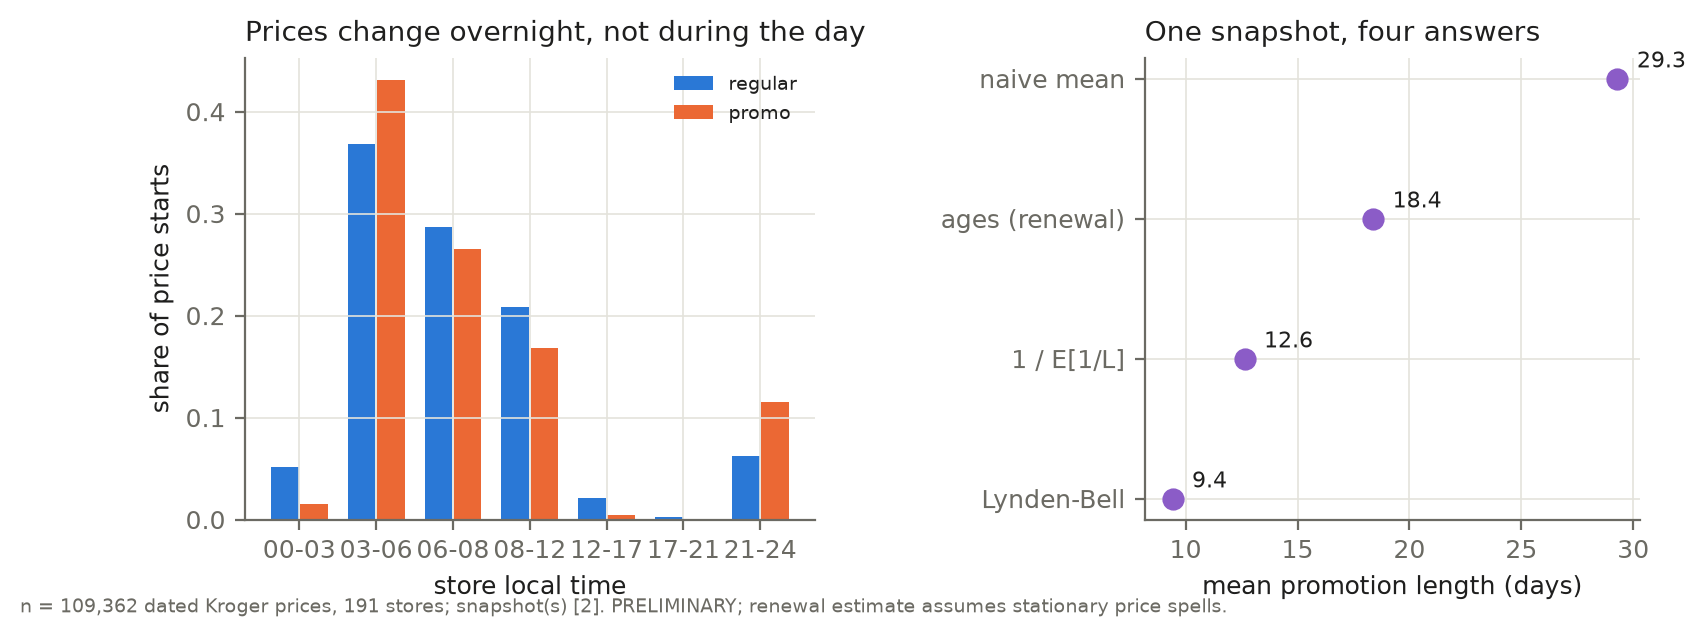
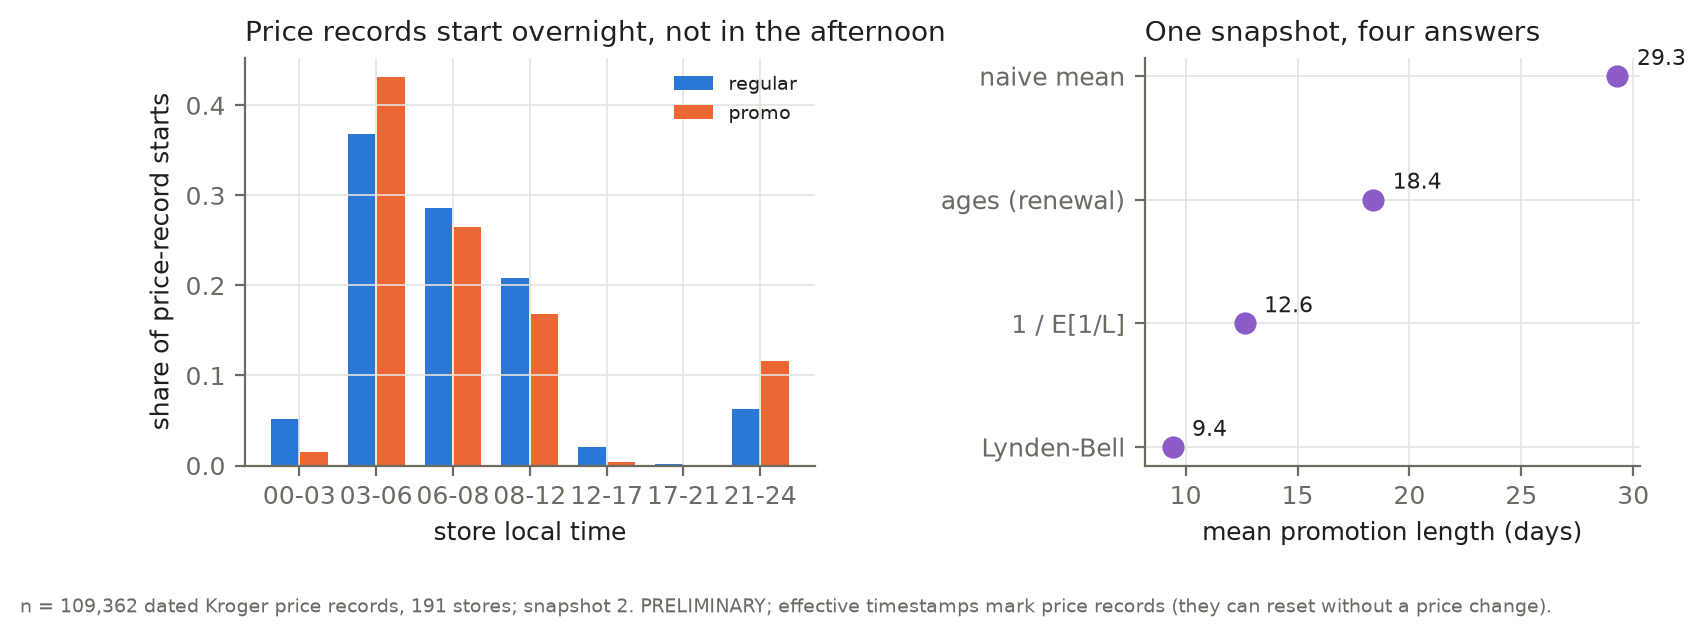
Module G figures: 'price record' wording, layout margin

diff --git a/analysis/module_g_timing.py b/analysis/module_g_timing.py
@@ -483,7 +483,7 @@ def figures(wd: pd.DataFrame, dur: pd.DataFrame, note: str) -> list[str]:
             axes[0].bar(x + (j - 0.5) * 0.38, row[days].to_numpy()[0], width=0.36, color=color, label=kind)
     axes[0].set_xticks(x, [d[:3] for d in days])
     axes[0].set_ylabel("share of price start dates")
-    axes[0].set_title("When Kroger prices start (weekday)", loc="left")
+    axes[0].set_title("When Kroger price records start (weekday)", loc="left")
     axes[0].legend(fontsize=7)
     for kind, color in (("regular", "#2a78d6"), ("promo", "#eb6834")):
         g = dur[dur["kind"] == kind]
@@ -505,7 +505,7 @@ def figure_g2(hours: pd.DataFrame, lsum: dict, note: str) -> str:
     """(a) local hour of price starts; (b) mean promotion length by estimator."""
     plt = style()
     fig, axes = plt.subplots(1, 2, figsize=(9.0, 3.0), gridspec_kw={"width_ratios": [1.15, 1]})
-    fig.subplots_adjust(wspace=0.62)
+    fig.subplots_adjust(wspace=0.62, bottom=0.2)
     bands = [c for c in hours.columns if c not in ("kind", "n")]
     x = np.arange(len(bands))
     for j, (kind, color) in enumerate((("regular", "#2a78d6"), ("promo", "#eb6834"))):
@@ -514,8 +514,8 @@ def figure_g2(hours: pd.DataFrame, lsum: dict, note: str) -> str:
             axes[0].bar(x + (j - 0.5) * 0.38, row[bands].to_numpy(float)[0], width=0.36, color=color, label=kind)
     axes[0].set_xticks(x, bands)
     axes[0].set_xlabel("store local time")
-    axes[0].set_ylabel("share of price starts")
-    axes[0].set_title("Prices change overnight, not during the day", loc="left")
+    axes[0].set_ylabel("share of price-record starts")
+    axes[0].set_title("Price records start overnight, not in the afternoon", loc="left")
     axes[0].legend(fontsize=7)
     est = [("naive mean", lsum["sampled_mean_days"], None, None),
            ("ages (renewal)", lsum.get("ages_only_days", np.nan), None, None),
